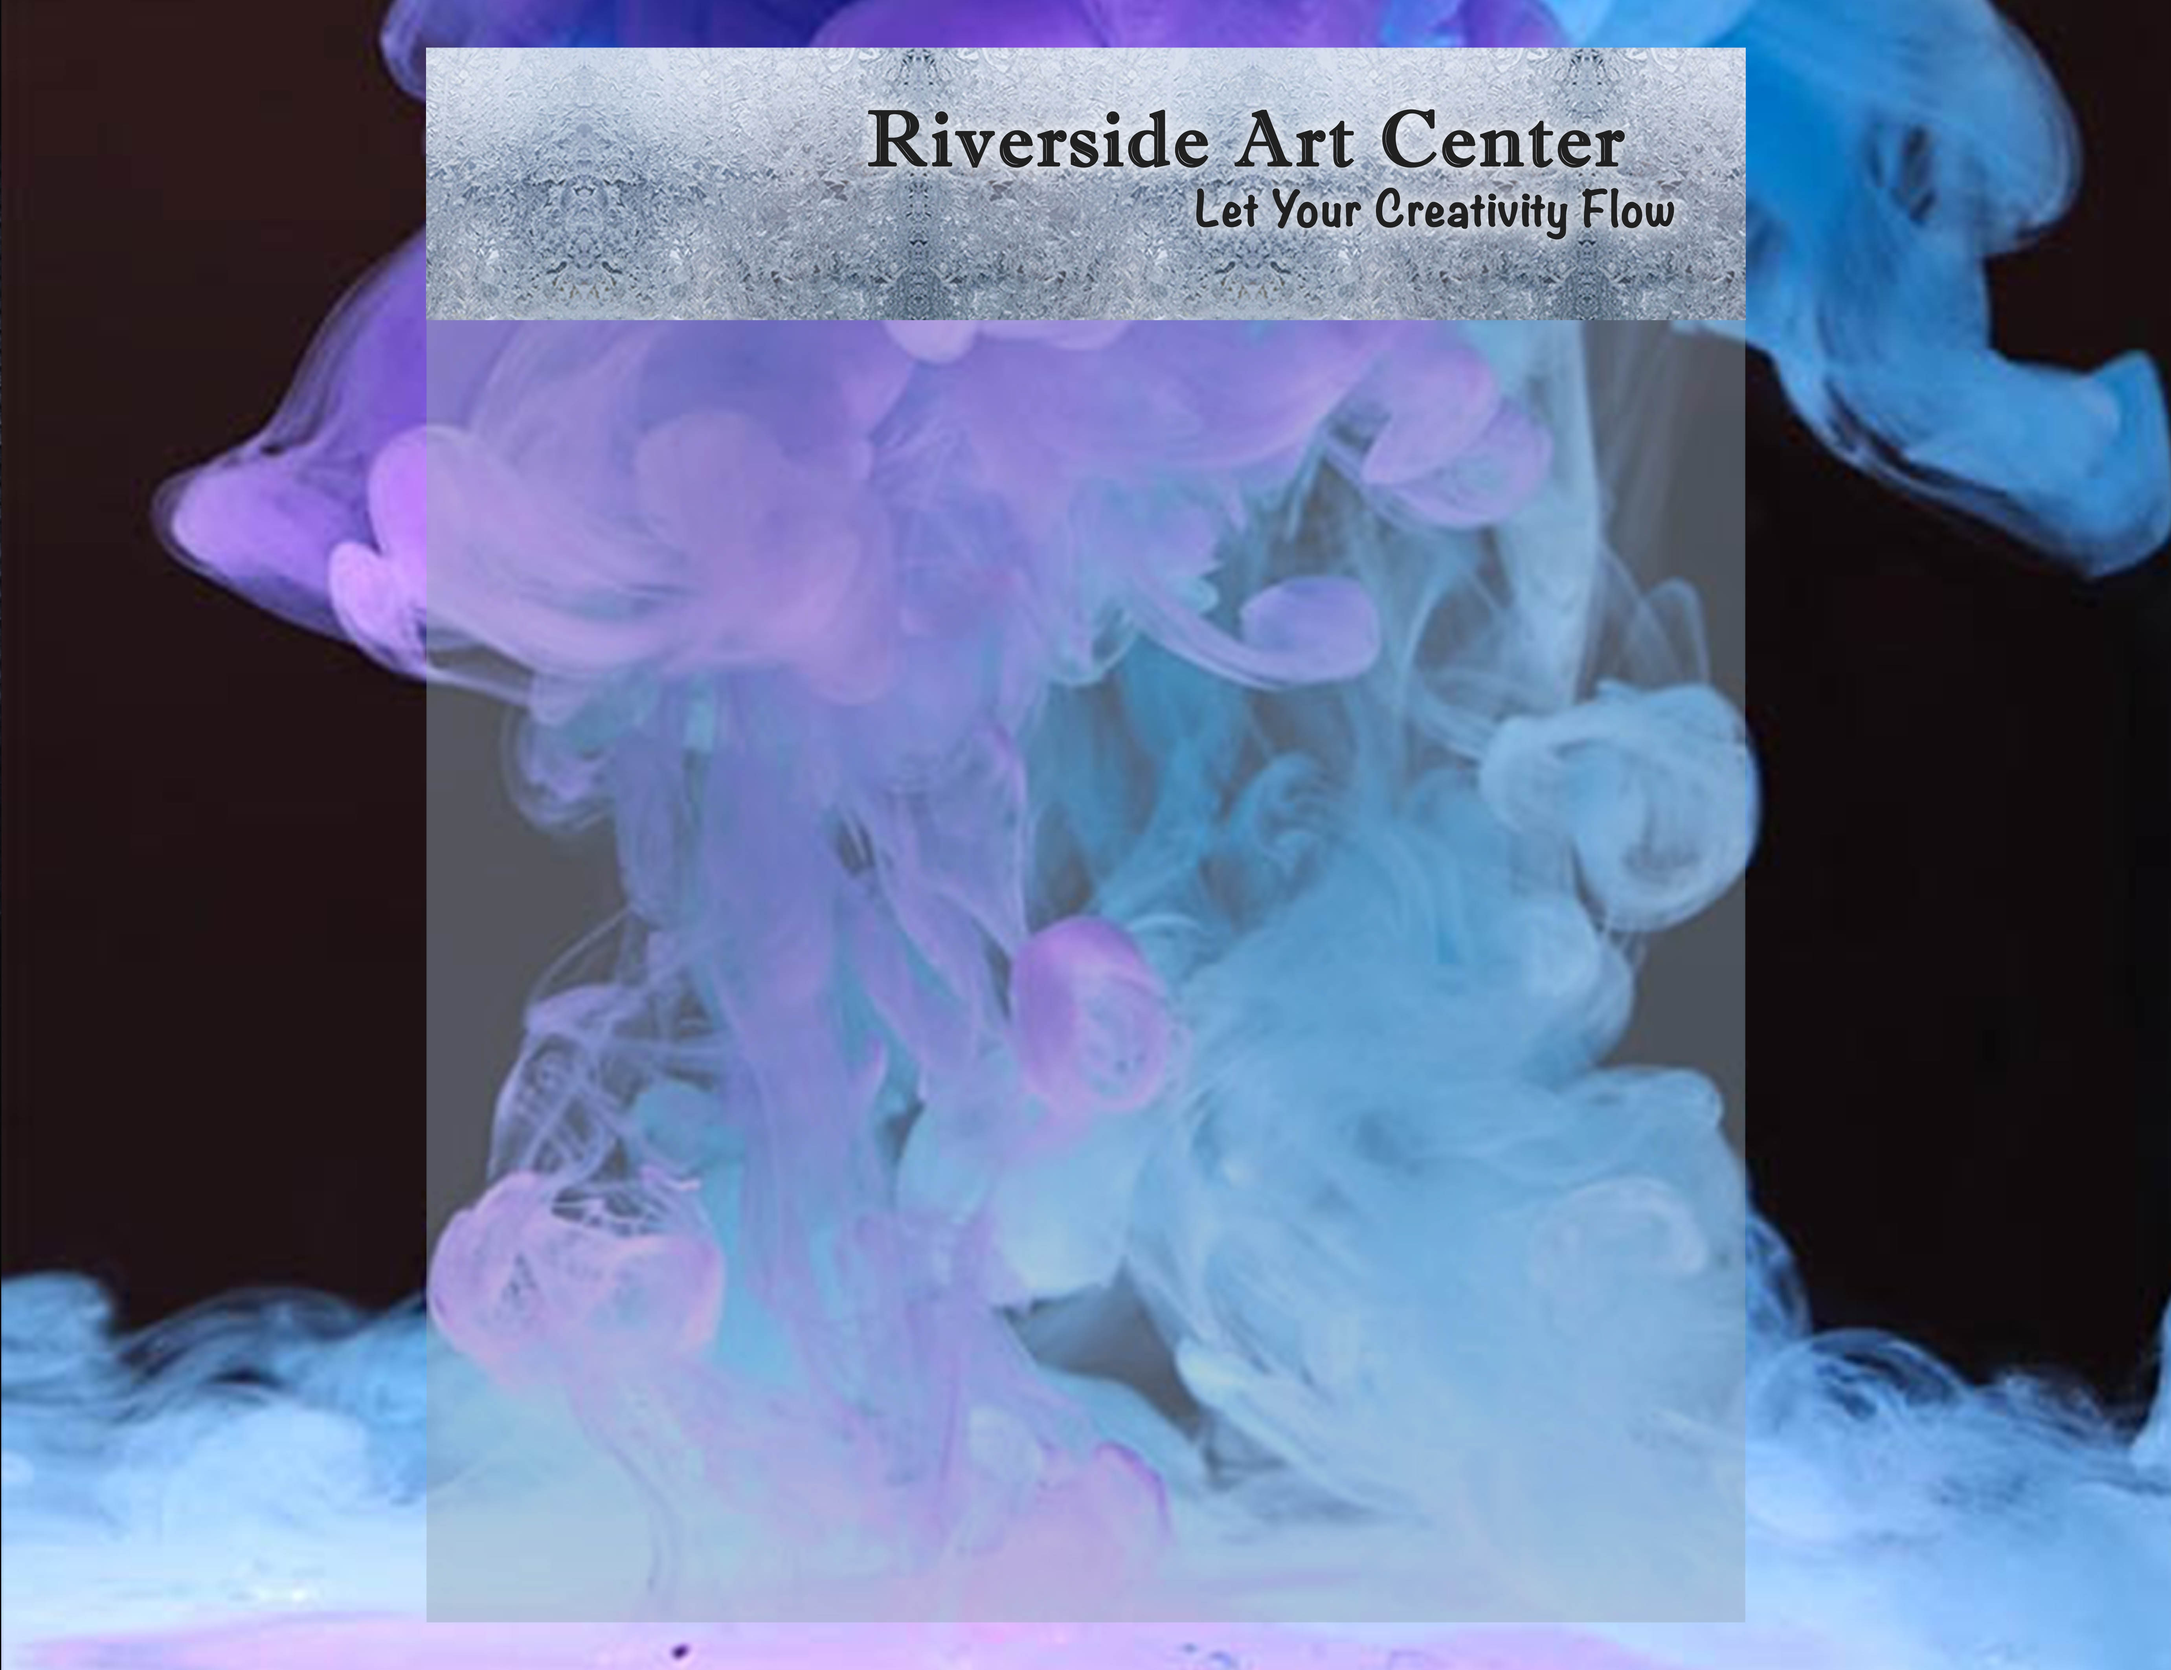
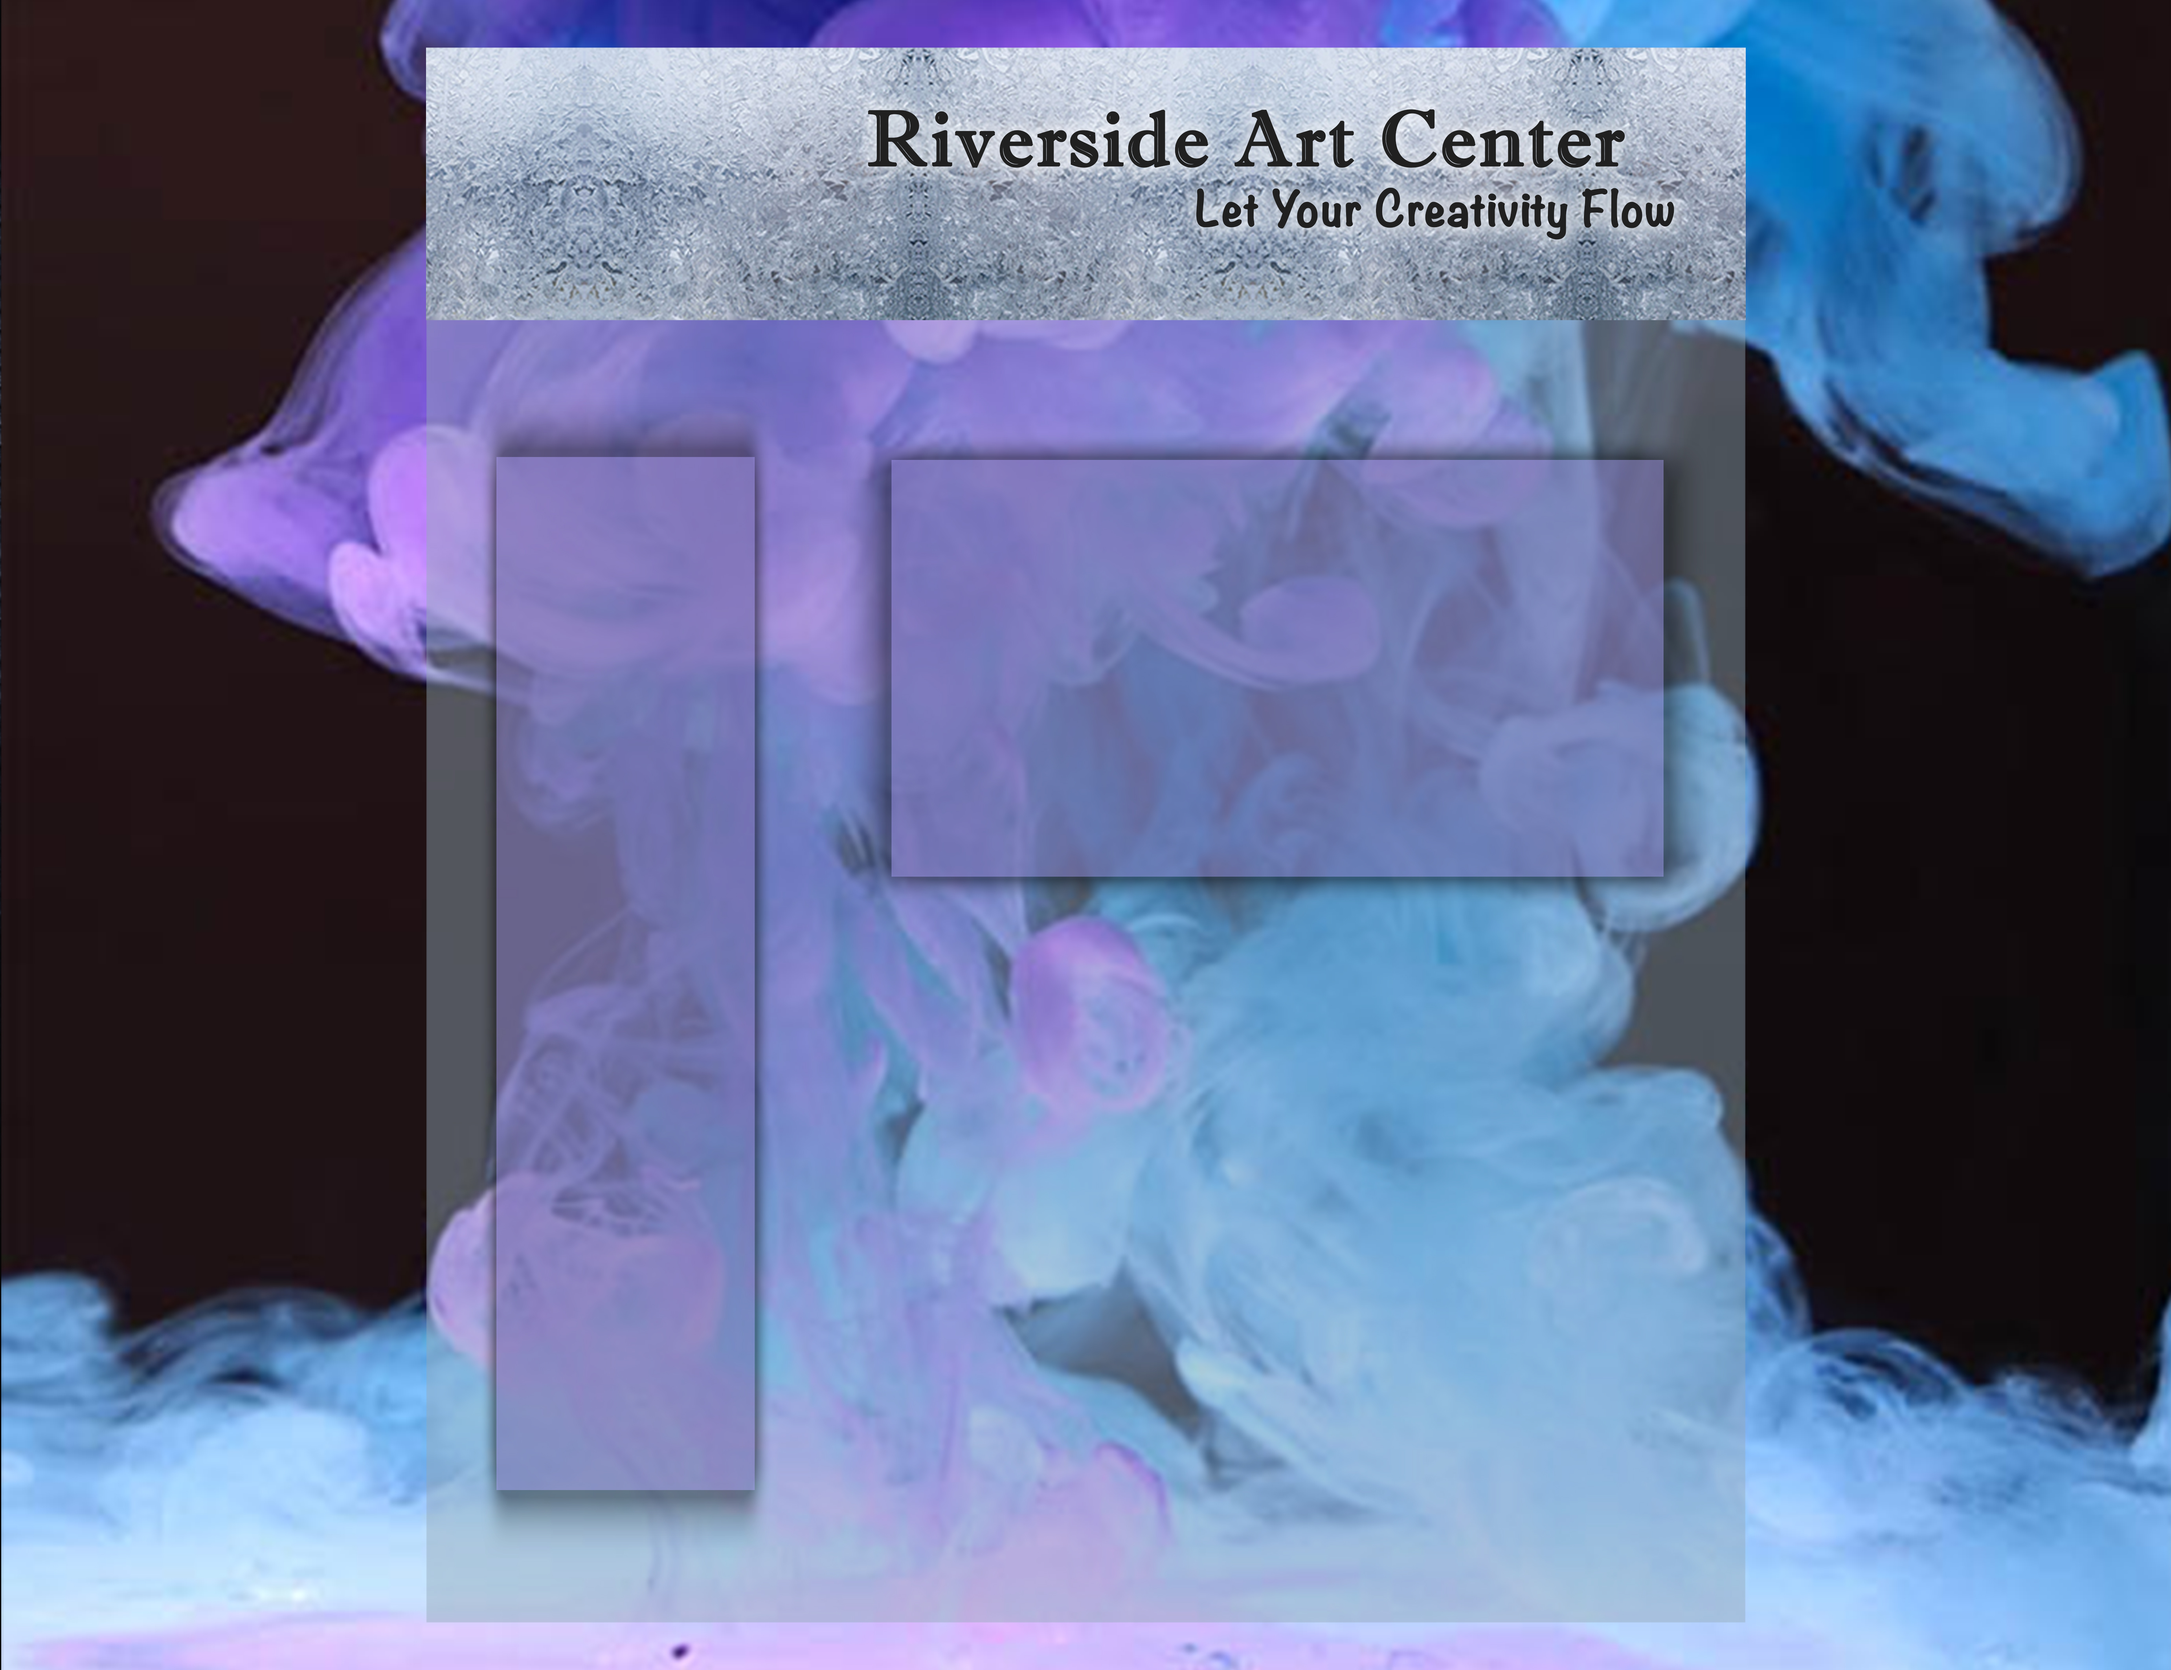
Added some elements and layout to home page
/*Forgot to commit this yesterday*/

Changed region(s): [[0.218, 0.2485, 0.7784, 0.9318]]

diff --git a/Riverside_Art_Center.css b/Riverside_Art_Center.css
@@ -80,34 +80,60 @@
 /*///////////////////////////////////////////////////////////////////////////*/
 /*///////////////////////////////////////////////////////////////////////////*/
 
-
-
-
-
 .frame {
   position: relative;
-  width: 51%;
-  height: 45%;
+  width: 33%;
+  height: 30%;
   margin-top: 3%;
-  margin-left: 24.7%;
+  margin-left: 42%;
 }
 
 .April {
   position: absolute;
-  width: 14%;
-  margin-left: 28%;
+  width: 9.3%;
+  margin-left: 43.5%;
 }
 
 .video {
   position: absolute;
-  width: 30%;
-  height: 32.3%;
-  margin-left: 42.7%
+  width: 20%;
+  height: 21.45%;
+  margin-left: 53.7%
 }
 
 .video,
 .April {
-  margin-top: -21.5%;
+  margin-top: -14.35%;
+}
+
+.link_classes,
+.link_donations,
+.link_community,
+.link_gallery,
+.link_events {
+   width: 10%;
+   margin-left:23.5%;
+   position:absolute;
+}
+
+.link_classes {
+   margin-top: -17%;
+}
+
+.link_community {
+   margin-top: -8%;
+}
+
+.link_gallery {
+   margin-top: 1%;
+}
+
+.link_events {
+   margin-top: 10%;
+}
+
+.link_donations {
+  margin-top: 19%;
 }
 /*///////////////////////////////////////////////////////////////////////////*/
 /*///////////////////////////////////////////////////////////////////////////*/

diff --git a/index.html b/index.html
@@ -28,7 +28,6 @@
     </div>
 
 
-
 		<div>
 			<img src="Images/1301837_stock-photo-film-frame.png" class="frame">
 			  <div>
@@ -38,6 +37,13 @@
 		</div>
 	 </div>
 
+   <div>
+		 <a href="Events.html"> <img src="Images/homepagelinkclasses.jpg" class="link_classes"/> </a>
+		 <a href="Community.html"> <img src="Images/homepagelinkcommunity.jpg" class="link_community"/> </a>
+		 <a href="Gallery.html"> <img src="Images/homepagelinkgallery.jpg" class="link_gallery"/> </a>
+		 <a href="Events.html"> <img src="Images/homepagelinkevents.jpg" class="link_events"/> </a>
+		 <a href="Contributors.html"> <img src="Images/homepagelinkdonations.jpg" class="link_donations"/> </a>
+	 </div>
 
 
 
